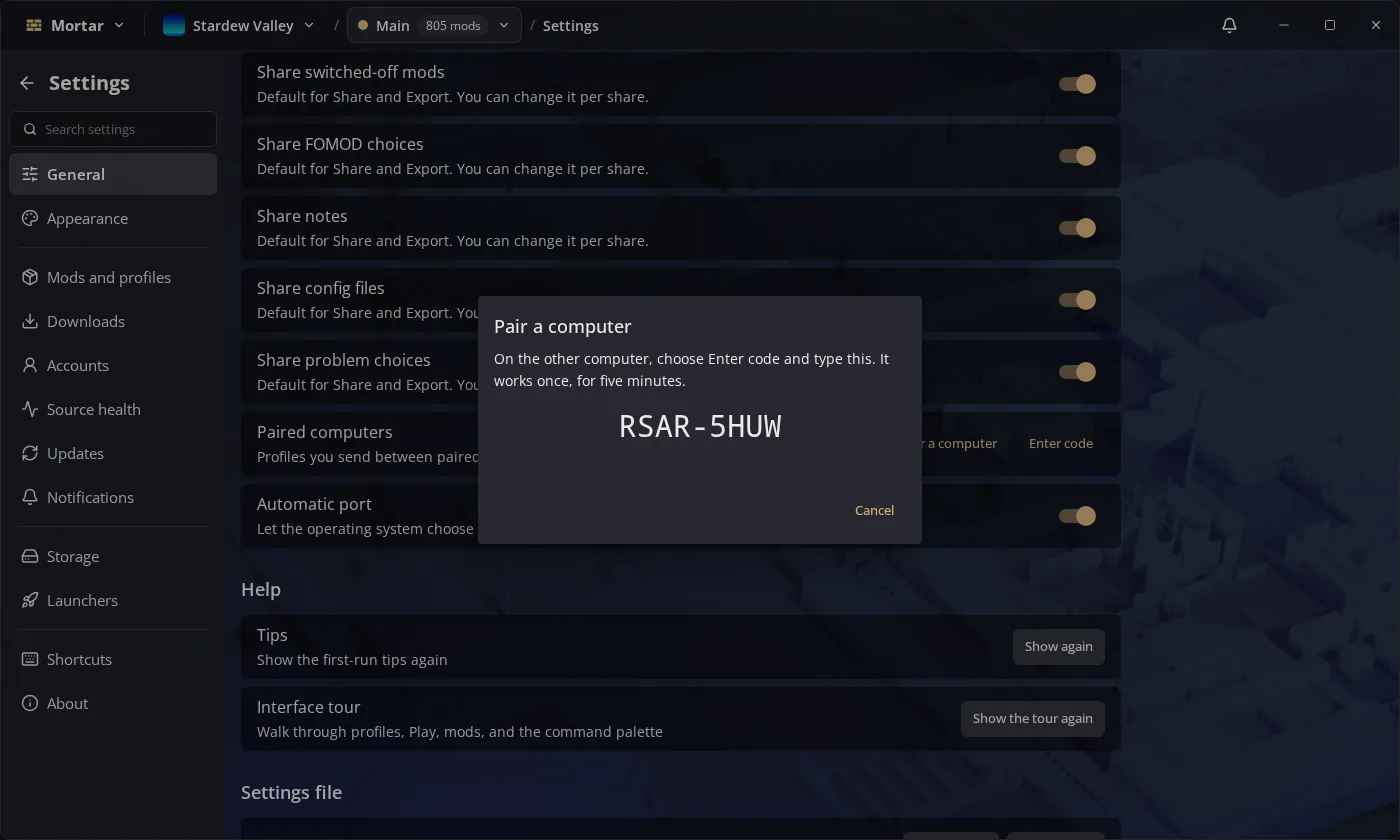
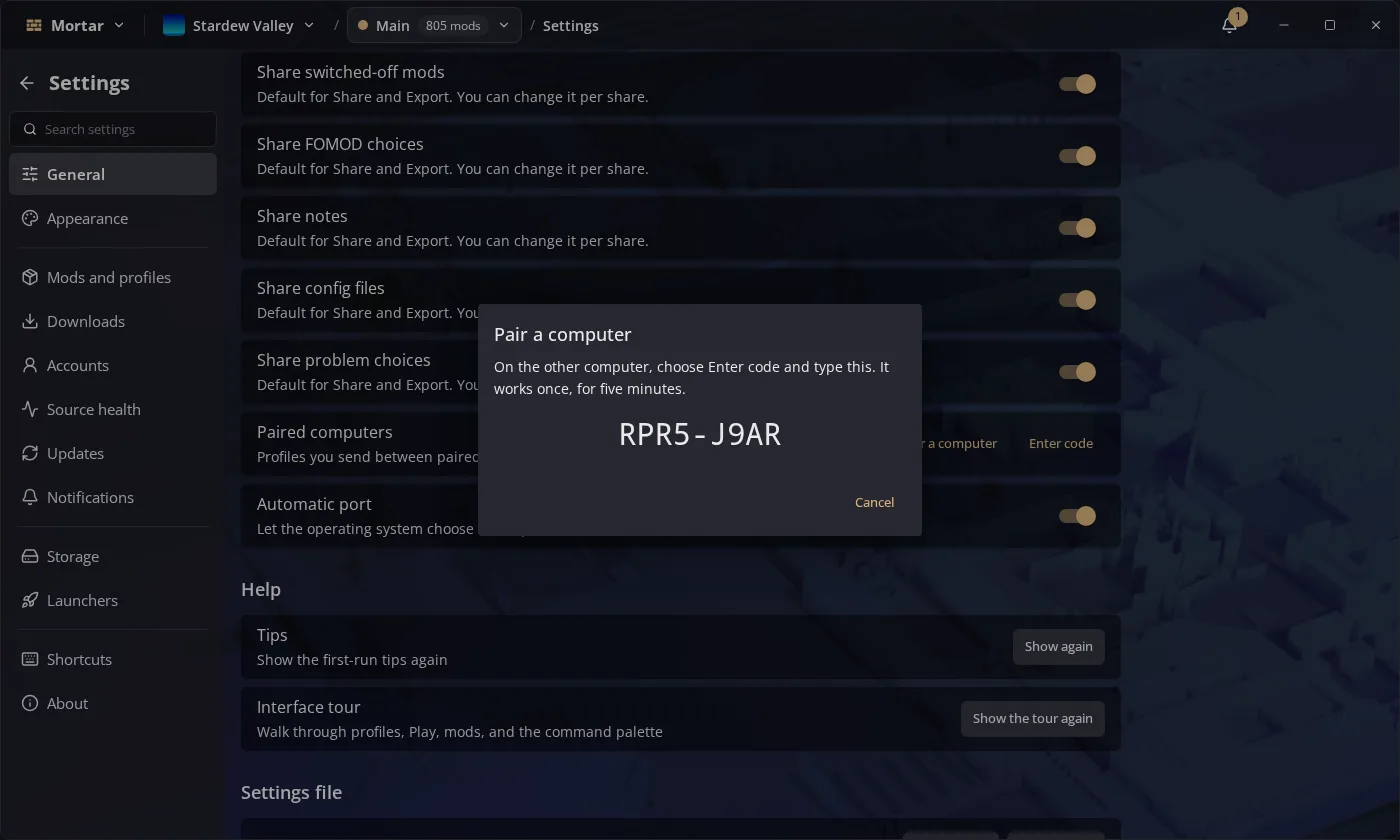
docs(screenshots): retake the site and metainfo shots; the script waits out loading and dismisses toasts

diff --git a/frontend/e2e/screens.ts b/frontend/e2e/screens.ts
@@ -18,6 +18,8 @@ const url = arg('url', 'http://127.0.0.1:9455')
 const out = arg('out', '/var/tmp/screens')
 const STEP_MS = 5000
 const SETTLE_MS = 400
+// The copied data's update check answers a few seconds after the page opens.
+const TOAST_MS = 4000
 
 const written: string[] = []
 const skipped: string[] = []
@@ -40,6 +42,18 @@ async function settle(page: Page) {
 async function shot(page: Page, name: string, steps: () => Promise<void>) {
   try {
     await steps()
+    // A list that is still loading, or a toast about the copied data, would be in the picture.
+    await page
+      .getByText('Loading…')
+      .first()
+      .waitFor({ state: 'hidden', timeout: 15_000 })
+      .catch(() => undefined)
+    await page.waitForTimeout(TOAST_MS)
+    const toasts = page.getByRole('region', { name: 'Notifications' })
+    for (const dismiss of await toasts.getByRole('button', { name: 'Dismiss' }).all()) {
+      // Clicked in the page: an open dialog's backdrop would take a pointer click.
+      await dismiss.evaluate((el) => (el as HTMLElement).click()).catch(() => undefined)
+    }
     await settle(page)
     const path = `${out}/${name}.png`
     await page.screenshot({ path })
